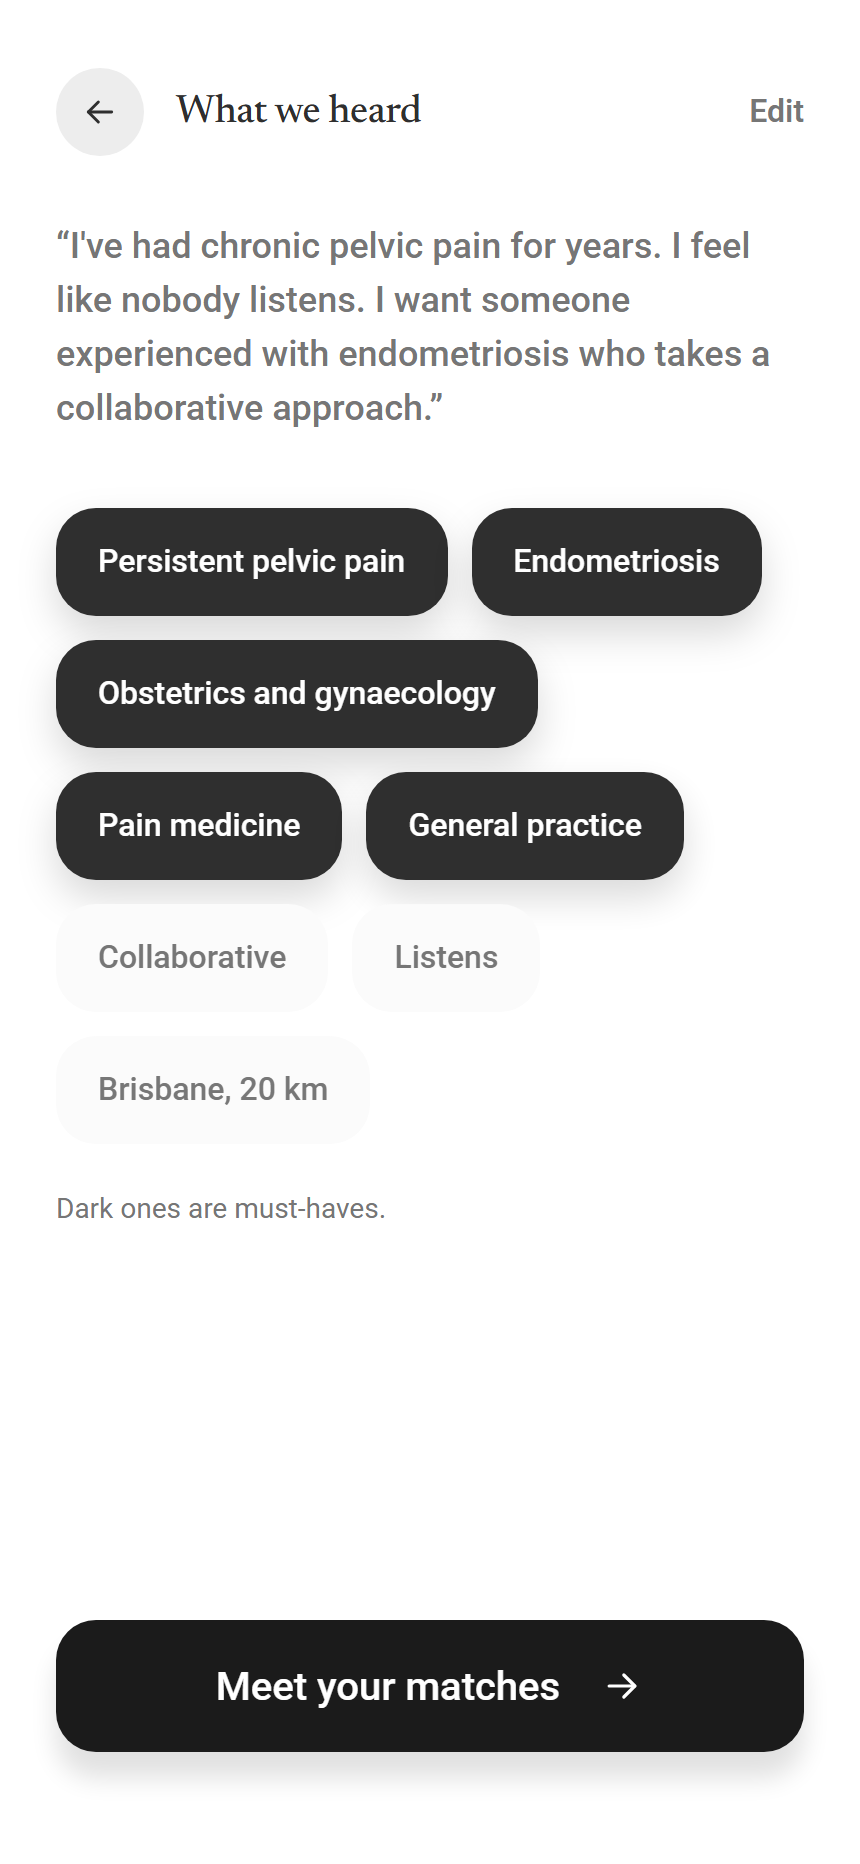
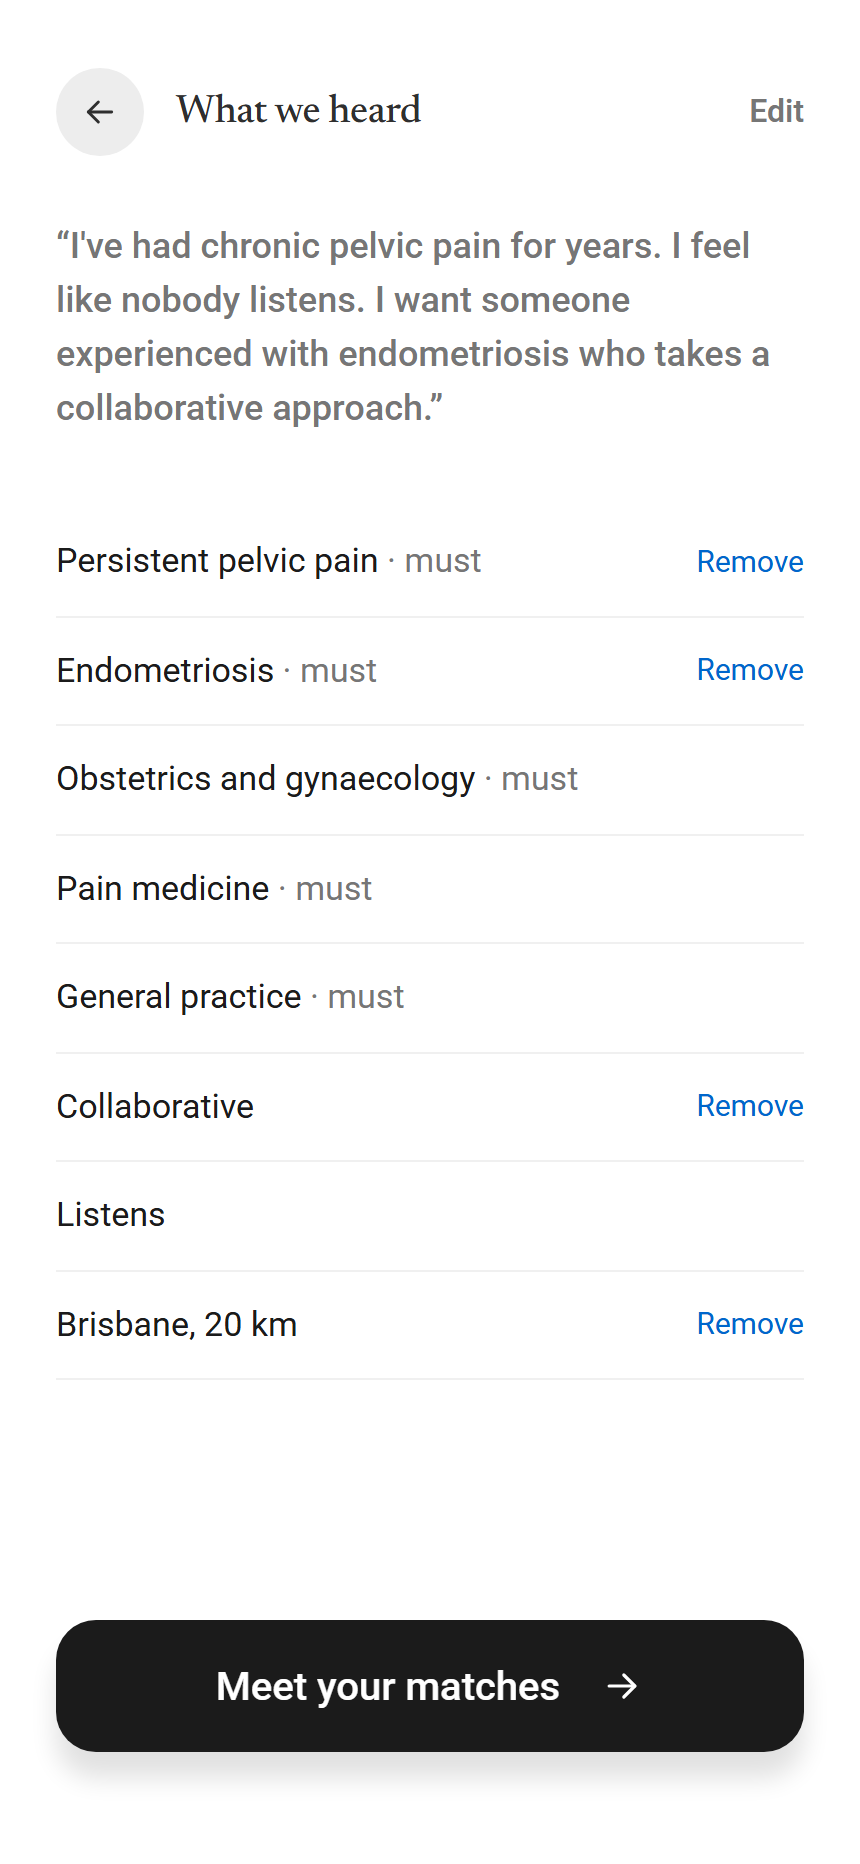
ui v4: adjust, heard and expertise screens in the editorial list style (no pills)

diff --git a/src/ui/screens/patient-b/Expertise.tsx b/src/ui/screens/patient-b/Expertise.tsx
@@ -4,9 +4,9 @@
 // Research title row with "View all", book rows per verified publication, CTA "Contact practice".
 import { useState } from "react";
 import type { DoctorRecord } from "@/src/data/types";
-import { Body, Divider, Fade, FigmaIcon, Pill, Pills, Screen, SourceRow, TopBar } from "@/src/ui/kit";
+import { Body, Divider, Fade, FigmaIcon, Screen, SourceRow, TopBar } from "@/src/ui/kit";
 import { Space } from "./bits";
-import { niceSource, TIER_WORD, verifiedPublications } from "./facts";
+import { listSentence, niceSource, TIER_WORD, verifiedPublications } from "./facts";
 import { ContactCta } from "./ProfileClient";
 import { doctorSlug } from "@/src/data/doctor-slug";
 
@@ -41,11 +41,11 @@ export function Expertise({ doctor: d, labels }: { doctor: DoctorRecord; labels:
     <Screen padBottom="pb-[140px]">
       <TopBar title="Clinical expertise" back={`/doctor/${id}`} />
       <Space h={30} />
-      <Pills>
+      <div className="flex gap-6 border-b border-divider">
         {(["Conditions", "Research", "Training"] as Tab[]).map((t) => (
-          <Pill key={t} on={tab === t} onClick={() => setTab(t)}>{t}</Pill>
+          <button key={t} type="button" onClick={() => setTab(t)} className={`press-soft press -mb-px border-b-2 pb-3 text-[16px] ${tab === t ? "border-ink text-ink" : "border-transparent text-grey"}`}>{t}</button>
         ))}
-      </Pills>
+      </div>
       <Space h={30} />
 
       {tab === "Conditions" ? (
@@ -53,14 +53,7 @@ export function Expertise({ doctor: d, labels }: { doctor: DoctorRecord; labels:
           {conditions.length === 0 ? (
             <Body>Not declared.</Body>
           ) : (
-            <div className="flex flex-wrap gap-x-5 gap-y-4">
-              {conditions.map((c) => (
-                <span key={c} className="inline-flex items-center gap-2">
-                  <span className="inline-flex size-[34px] shrink-0 items-center justify-center rounded-[6px] bg-surface"><FigmaIcon name="check" size={17} /></span>
-                  <span className="text-[16px] font-medium leading-normal text-grey">{c}</span>
-                </span>
-              ))}
-            </div>
+            <p className="text-[17px] leading-[1.5] text-charcoal">{listSentence(conditions)}.</p>
           )}
           <Space h={10} />
           <p className="text-[12px] text-grey">{badge}</p>

diff --git a/src/ui/screens/patient-a/Heard.tsx b/src/ui/screens/patient-a/Heard.tsx
@@ -5,7 +5,7 @@
 import Link from "next/link";
 import { useRouter, useSearchParams } from "next/navigation";
 import { useEffect, useState } from "react";
-import { ArrowLeft, Body, Circle, Cta, Gap, Pill, Pills, Screen } from "@/src/ui/kit";
+import { ArrowLeft, Body, Circle, Cta, Gap, Screen } from "@/src/ui/kit";
 import { getCurrentRequest, getRequest, setDraft, setRequest, type StoredRequest } from "@/src/ui/store";
 import { Dock } from "./Dock";
 import { heardPills, withoutPill } from "./lib";
@@ -63,17 +63,14 @@ export function Heard() {
         <>
           <Body>&ldquo;{req.sentence}&rdquo;</Body>
           <div style={{ height: 36 }} aria-hidden="true" />
-          <Pills>
-            {pills.map((p) => (
-              <span key={p.id} className={p.must ? "drop-shadow-[0_9px_9.5px_rgba(0,0,0,0.15)]" : undefined} style={busy === p.id ? { opacity: 0.5 } : undefined}>
-                <Pill on={p.must} onClick={p.removable ? () => void toggle(p.id) : undefined}>
-                  {p.label}
-                </Pill>
-              </span>
-            ))}
-          </Pills>
-          <div style={{ height: 22 }} aria-hidden="true" />
-          <p className="text-[14px] leading-normal text-grey">Dark ones are must-haves.</p>
+          {pills.map((p) => (
+            <div key={p.id} className="flex items-center justify-between border-b border-divider py-3.5" style={busy === p.id ? { opacity: 0.5 } : undefined}>
+              <span className="text-[17px] text-ink">{p.label}<span className="text-grey">{p.must ? " · must" : ""}</span></span>
+              {p.removable ? (
+                <button type="button" onClick={() => void toggle(p.id)} className="press-dim text-[15px] text-accent">Remove</button>
+              ) : null}
+            </div>
+          ))}
           {req.response.emergency ? (
             <>
               <Gap h={24} />

diff --git a/src/ui/screens/patient-b/Adjust.tsx b/src/ui/screens/patient-b/Adjust.tsx
@@ -8,7 +8,7 @@
 import { useRouter } from "next/navigation";
 import { useEffect, useState } from "react";
 import type { HumanFitWeights } from "@/src/matching/layer2";
-import { Cta, Pill, Pills, Screen, TopBar } from "@/src/ui/kit";
+import { Check, Cta, Screen, TopBar } from "@/src/ui/kit";
 import { getAdjust, getCurrentRequest, getMatch, setAdjust, setMatch, setRequest, type StoredRequest } from "@/src/ui/store";
 import { Space } from "./bits";
 import { fetchRerank, type RerankEdits } from "./rerank-client";
@@ -99,14 +99,15 @@ export function Adjust() {
       <Space h={30} />
       {SECTIONS.map((s, i) => (
         <div key={s.title}>
-          {i > 0 ? <Space h={30} /> : null}
-          <h2 className="display text-[20px] text-charcoal">{s.title}</h2>
-          <Space h={16} />
-          <Pills>
-            {s.pills.map((p) => (
-              <Pill key={p} on={on.has(p)} onClick={() => toggle(p)}>{p}</Pill>
-            ))}
-          </Pills>
+          {i > 0 ? <Space h={32} /> : null}
+          <h2 className="display text-[22px] text-ink">{s.title}</h2>
+          <Space h={8} />
+          {s.pills.map((p) => (
+            <button key={p} type="button" role="switch" aria-checked={on.has(p)} onClick={() => toggle(p)} className="press press-soft flex w-full items-center justify-between border-b border-divider py-3.5 text-left">
+              <span className={`text-[17px] ${on.has(p) ? "text-ink" : "text-grey"}`}>{p}</span>
+              <span className={`inline-flex size-6 items-center justify-center rounded-full border ${on.has(p) ? "border-ink bg-ink text-white" : "border-hairline text-transparent"}`}><Check size={14} /></span>
+            </button>
+          ))}
         </div>
       ))}
       <Space h={30} />
